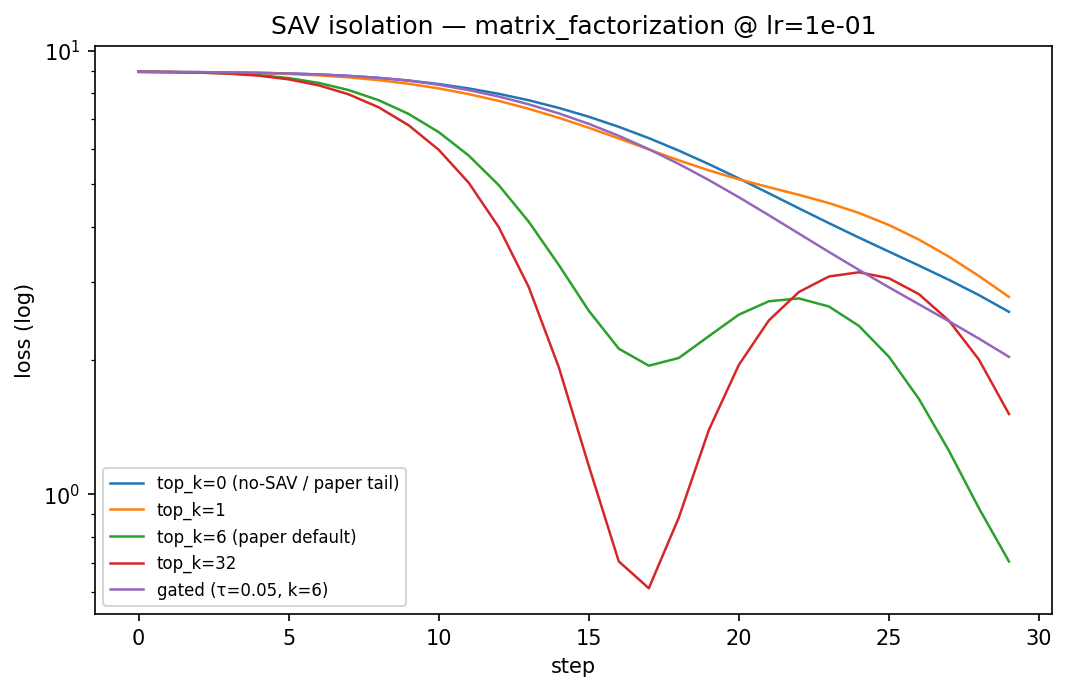
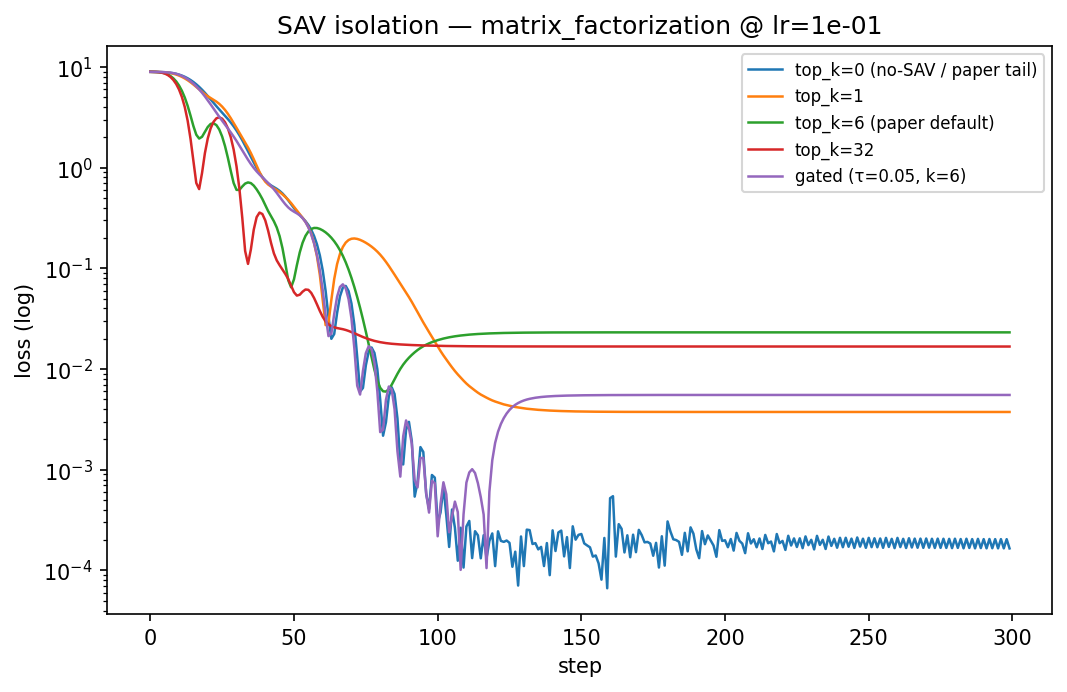
Pushing results, interesting finding for tiny-Shakespeare task

diff --git a/results/sav_isolation/matrix_factorization/summary.md b/results/sav_isolation/matrix_factorization/summary.md
@@ -1,11 +1,11 @@
 # SAV isolation — matrix_factorization
 
-lr = 1.00e-01, steps = 30, seed = 0
+lr = 1.00e-01, steps = 300, seed = 0
 
 | variant | score (min over last 10%) | final loss |
 |---|---|---|
-| top_k=0 (no-SAV / paper tail) | 2.574e+00 | 2.574e+00 |
-| top_k=1 | 2.782e+00 | 2.782e+00 |
-| top_k=6 (paper default) | 7.042e-01 | 7.042e-01 |
-| top_k=32 | 1.514e+00 | 1.514e+00 |
-| gated (τ=0.05, k=6) | 2.038e+00 | 2.038e+00 |
+| top_k=0 (no-SAV / paper tail) | 1.656e-04 | 1.656e-04 |
+| top_k=1 | 3.749e-03 | 3.749e-03 |
+| top_k=6 (paper default) | 2.315e-02 | 2.315e-02 |
+| top_k=32 | 1.674e-02 | 1.674e-02 |
+| gated (τ=0.05, k=6) | 5.533e-03 | 5.533e-03 |

diff --git a/results/gate_sensitivity/shakespeare/summary.md b/results/gate_sensitivity/shakespeare/summary.md
@@ -1,0 +1,13 @@
+# Gate sensitivity — shakespeare
+
+lr = 3.00e-04, steps = 1000, top_k = 6, seed = 0
+
+score = min loss over last 10% of training; τ=0 ⇒ gate disabled (paper default).
+
+| τ \ window | 5 | 10 | 20 |
+|---|---|---|---|
+| 0 | 2.438e+00 | 2.438e+00 | 2.438e+00 |
+| 0.01 | 2.453e+00 | 2.458e+00 | 2.465e+00 |
+| 0.05 | 2.438e+00 | 2.438e+00 | 2.446e+00 |
+| 0.1 | 2.438e+00 | 2.438e+00 | 2.439e+00 |
+| 0.2 | 2.438e+00 | 2.438e+00 | 2.439e+00 |

diff --git a/results/sav_isolation/linear_regression/summary.md b/results/sav_isolation/linear_regression/summary.md
@@ -1,0 +1,11 @@
+# SAV isolation — linear_regression
+
+lr = 1.00e-01, steps = 300, seed = 0
+
+| variant | score (min over last 10%) | final loss |
+|---|---|---|
+| top_k=0 (no-SAV / paper tail) | 1.333e-03 | 1.354e-03 |
+| top_k=1 | 3.966e-03 | 3.966e-03 |
+| top_k=6 (paper default) | 6.777e-03 | 6.777e-03 |
+| top_k=32 | 2.800e-02 | 2.800e-02 |
+| gated (τ=0.05, k=6) | 1.515e-03 | 1.515e-03 |

diff --git a/results/sav_isolation/shakespeare/summary.md b/results/sav_isolation/shakespeare/summary.md
@@ -1,0 +1,11 @@
+# SAV isolation — shakespeare
+
+lr = 3.00e-04, steps = 2000, seed = 0
+
+| variant | score (min over last 10%) | final loss |
+|---|---|---|
+| top_k=0 (no-SAV / paper tail) | 2.432e+00 | 2.440e+00 |
+| top_k=1 | 2.430e+00 | 2.438e+00 |
+| top_k=6 (paper default) | 2.334e+00 | 2.339e+00 |
+| top_k=32 | 1.847e+00 | 1.903e+00 |
+| gated (τ=0.05, k=6) | 2.337e+00 | 2.342e+00 |
